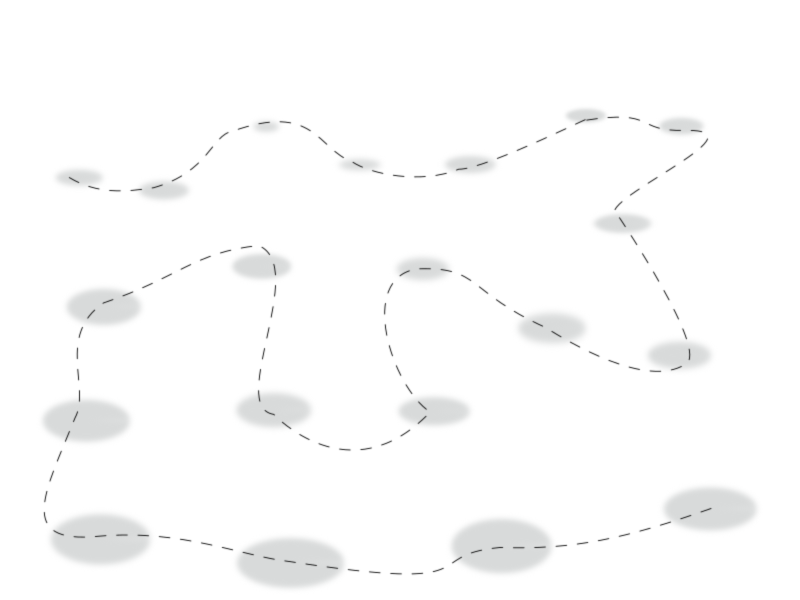
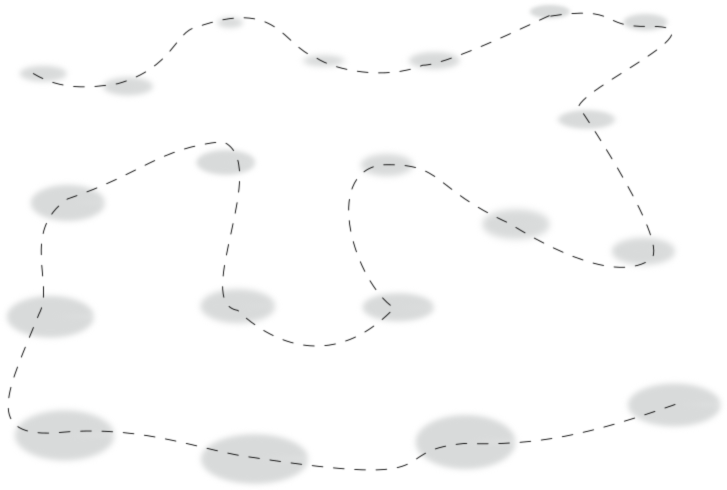
Arreglando tama;o del mapa 20 porque se descuadraba

diff --git a/SeleccionDeNivel.js b/SeleccionDeNivel.js
@@ -231,7 +231,7 @@ function mapBackground(){
 	}
     if (NivelMaximo >= 20){
                 mapa.kill();
-		mapa = game.add.sprite(70,100,'mapa19');
+		mapa = game.add.sprite(70,100,'mapa20');
                 mapa.scale.setTo(0.9,0.9);
 	}
 }
